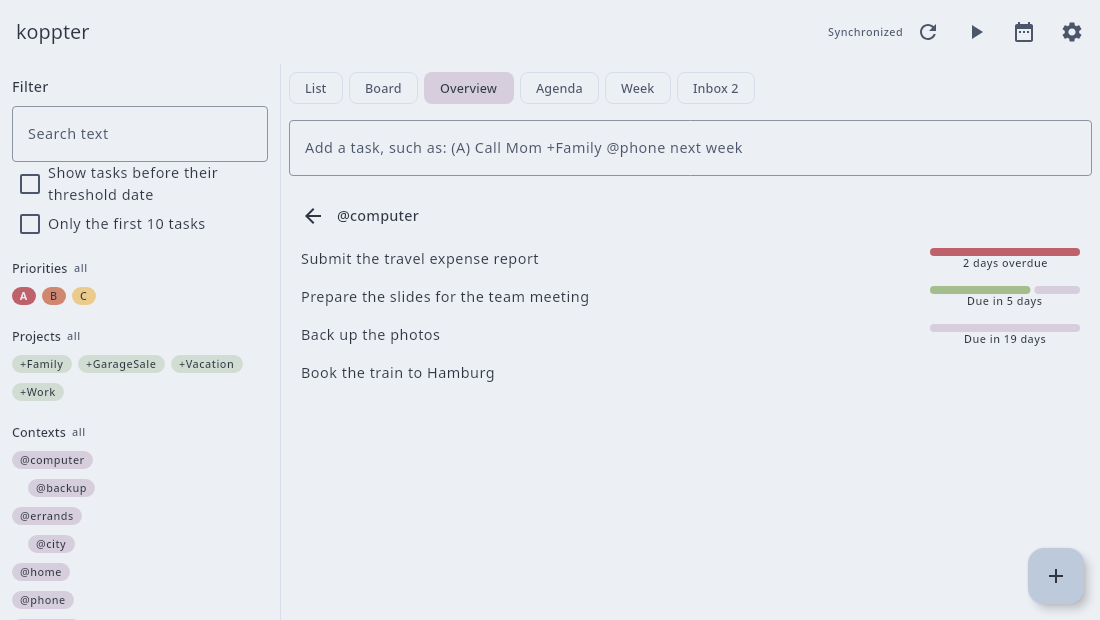
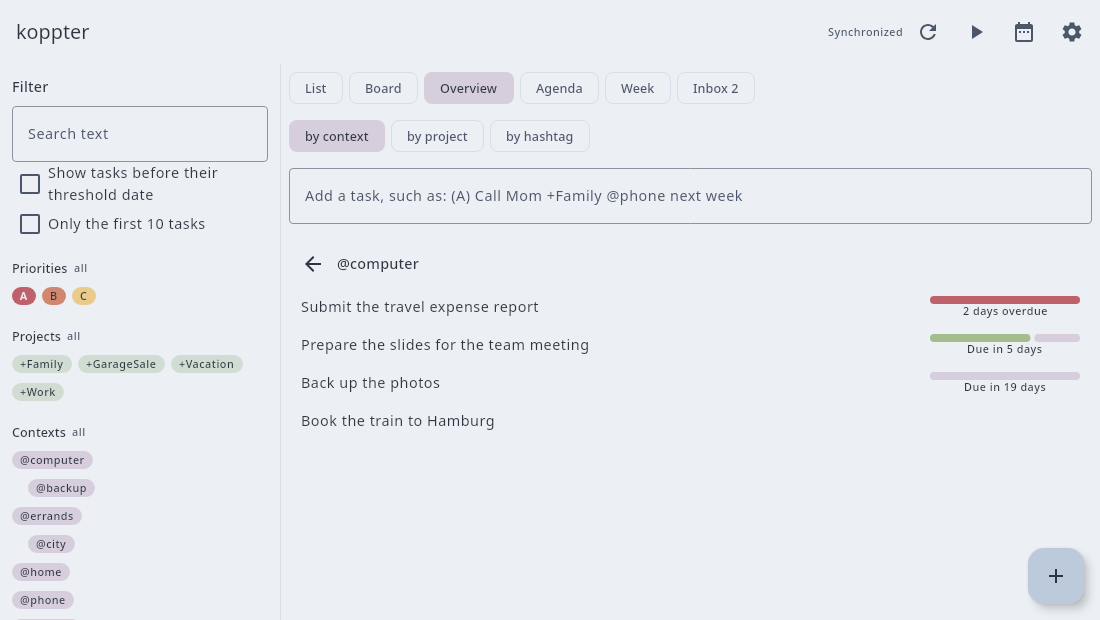
Show the overview by project or by hashtag as well
The overview had tiles for contexts only.
The switches below the views now choose contexts, projects or hashtags, so that a project or a hashtag shows its state and its most urgent tasks in the same way.

diff --git a/app/src/commonMain/kotlin/io/github/koppor/koppter/ui/App.kt b/app/src/commonMain/kotlin/io/github/koppor/koppter/ui/App.kt
@@ -90,7 +90,8 @@ import io.github.koppor.koppter.todotxt.Completion
 import io.github.koppor.koppter.todotxt.Filter
 import io.github.koppor.koppter.todotxt.GroupKey
 import io.github.koppor.koppter.todotxt.Task
-import io.github.koppor.koppter.todotxt.contextStates
+import io.github.koppor.koppter.todotxt.OVERVIEW_KEYS
+import io.github.koppor.koppter.todotxt.overviewStates
 import kotlinx.coroutines.delay
 import kotlinx.coroutines.launch
 
@@ -300,7 +301,10 @@ private fun MainScreen(
                         val emptyText = if (controller.file.entries.isEmpty()) "No tasks" else "No task matches the filter"
                         val open: (Entry) -> Unit = { editing = Editing(it) }
                         if (controller.view == View.OVERVIEW) {
-                            Overview(contextStates(controller.visible, controller.today()), controller.today(), open, emptyText)
+                            // An opened tile belongs to the attribute that was chosen: another one starts with the tiles.
+                            androidx.compose.runtime.key(controller.overviewKey) {
+                                Overview(overviewStates(controller.visible, controller.today(), controller.overviewKey), controller.today(), open, emptyText)
+                            }
                         } else if (controller.view == View.AGENDA) {
                             Agenda(controller.planBlocks, controller.dueUnplanned, controller::entryOf, controller.today(), controller::toggle, open)
                         } else if (controller.view == View.WEEK) {
@@ -414,13 +418,24 @@ private fun ViewOptions(controller: TodoController) {
             }
         }
         val list = controller.view == View.LIST
-        if (!list && !controller.board) return
+        val overview = controller.view == View.OVERVIEW
+        if (!list && !overview && !controller.board) return
         Row(Modifier.horizontalScroll(rememberScrollState()), horizontalArrangement = Arrangement.spacedBy(6.dp)) {
-            for (key in GroupKey.entries) {
+            for (key in if (overview) OVERVIEW_KEYS else GroupKey.entries) {
                 FilterChip(
-                    selected = (if (list) controller.listGroupKey else controller.groupKey) == key,
-                    // The board always has columns; the list is divided or not.
-                    onClick = { if (list) controller.listGroupKey = key.takeIf { it != controller.listGroupKey } else controller.groupKey = key },
+                    selected = when {
+                        list -> controller.listGroupKey
+                        overview -> controller.overviewKey
+                        else -> controller.groupKey
+                    } == key,
+                    // The board always has columns and the overview always has tiles; the list is divided or not.
+                    onClick = {
+                        when {
+                            list -> controller.listGroupKey = key.takeIf { it != controller.listGroupKey }
+                            overview -> controller.overviewKey = key
+                            else -> controller.groupKey = key
+                        }
+                    },
                     label = { Text("by ${key.label.lowercase()}") },
                     modifier = Modifier.testTag("group-${key.name}"),
                 )

diff --git a/app/src/commonMain/kotlin/io/github/koppor/koppter/ui/Overview.kt b/app/src/commonMain/kotlin/io/github/koppor/koppter/ui/Overview.kt
@@ -34,7 +34,7 @@ import androidx.compose.ui.Modifier
 import androidx.compose.ui.graphics.Color
 import androidx.compose.ui.platform.testTag
 import androidx.compose.ui.unit.dp
-import io.github.koppor.koppter.todotxt.ContextState
+import io.github.koppor.koppter.todotxt.OverviewState
 import io.github.koppor.koppter.todotxt.Entry
 import io.github.koppor.koppter.todotxt.UrgencyState
 import io.github.koppor.koppter.todotxt.urgency
@@ -48,16 +48,16 @@ private fun UrgencyState.color(): Color = when (this) {
 }
 
 /**
- * One tile per context of the outermost level, which tells by a colored dot how the context is doing.
- * A click on a tile shows the tasks of the context, the most urgent first, each with a bar that fills up to its due date.
+ * One tile per context, project or hashtag, which tells by a colored dot how it is doing.
+ * A click on a tile shows its tasks, the most urgent first, each with a bar that fills up to its due date.
  */
 // [impl->dsn~overview~1]
 @OptIn(ExperimentalLayoutApi::class)
 @Composable
-fun Overview(states: List<ContextState>, today: LocalDate, onOpen: (Entry) -> Unit, emptyText: String) {
+fun Overview(states: List<OverviewState>, today: LocalDate, onOpen: (Entry) -> Unit, emptyText: String) {
     var selected by remember { mutableStateOf<String?>(null) }
     var showing by remember { mutableStateOf(false) }
-    val shown = states.firstOrNull { it.context == selected }.takeIf { showing }
+    val shown = states.firstOrNull { it.name == selected }.takeIf { showing }
     Column(Modifier.verticalScroll(rememberScrollState()).padding(8.dp).testTag("overview")) {
         if (states.isEmpty()) Text(emptyText, Modifier.padding(16.dp))
         if (shown == null) {
@@ -65,9 +65,9 @@ fun Overview(states: List<ContextState>, today: LocalDate, onOpen: (Entry) -> Un
                 for (state in states) {
                     Card(
                         Modifier.width(170.dp).clickable {
-                            selected = state.context
+                            selected = state.name
                             showing = true
-                        }.testTag("overview-${state.context ?: "none"}"),
+                        }.testTag("overview-${state.name ?: "none"}"),
                     ) {
                         Column(Modifier.padding(12.dp), verticalArrangement = Arrangement.spacedBy(4.dp)) {
                             Row(verticalAlignment = Alignment.CenterVertically) {
@@ -90,7 +90,7 @@ fun Overview(states: List<ContextState>, today: LocalDate, onOpen: (Entry) -> Un
         } else {
             Row(verticalAlignment = Alignment.CenterVertically) {
                 IconButton(onClick = { showing = false }, modifier = Modifier.testTag("overview-back")) {
-                    Icon(Icons.AutoMirrored.Filled.ArrowBack, contentDescription = "All contexts")
+                    Icon(Icons.AutoMirrored.Filled.ArrowBack, contentDescription = "Back to the tiles")
                 }
                 Text(shown.title, style = MaterialTheme.typography.titleMedium)
             }
@@ -118,5 +118,3 @@ fun Overview(states: List<ContextState>, today: LocalDate, onOpen: (Entry) -> Un
         }
     }
 }
-
-private val ContextState.title: String get() = context?.let { "@$it" } ?: "No context"

diff --git a/core/src/commonMain/kotlin/io/github/koppor/koppter/todotxt/Urgency.kt b/core/src/commonMain/kotlin/io/github/koppor/koppter/todotxt/Urgency.kt
@@ -45,12 +45,13 @@ fun Task.urgency(today: LocalDate): Urgency? {
 }
 
 /**
- * The state of a context of the outermost level, with the contexts below it.
+ * The state of a tile of the overview: a context or a project of the outermost level with those below it, or a hashtag.
  *
- * @param context `null` for the tasks without context
+ * @param name `null` for the tasks that have none
+ * @param title the name with its sign, as the tile shows it
  * @param entries the open tasks, the most urgent first and those without due date last
  */
-data class ContextState(val context: String?, val entries: List<Entry>, val dueToday: Int, val overdue: Int) {
+data class OverviewState(val name: String?, val title: String, val entries: List<Entry>, val dueToday: Int, val overdue: Int) {
     val state: UrgencyState
         get() = when {
             overdue > 0 -> UrgencyState.OVERDUE
@@ -59,17 +60,29 @@ data class ContextState(val context: String?, val entries: List<Entry>, val dueT
         }
 }
 
-/** The contexts of the outermost level that have open tasks, sorted by name; the tasks without context last. */
+/** The attributes that the overview has tiles for. */
+val OVERVIEW_KEYS = listOf(GroupKey.CONTEXT, GroupKey.PROJECT, GroupKey.HASHTAG)
+
+/**
+ * The contexts, projects or hashtags that have open tasks, sorted by name; the tasks that have none last.
+ * Contexts and projects are those of the outermost level, each with what lies below it.
+ */
 // [impl->dsn~overview~1]
-fun contextStates(entries: List<Entry>, today: LocalDate): List<ContextState> {
+fun overviewStates(entries: List<Entry>, today: LocalDate, key: GroupKey = GroupKey.CONTEXT): List<OverviewState> {
+    val (sign, values) = when (key) {
+        GroupKey.PROJECT -> "+" to Task::projects
+        GroupKey.HASHTAG -> "#" to Task::hashtags
+        else -> "@" to Task::contexts
+    }
     val open = entries.filterNot { it.task.completed }
-    val contexts = open.flatMap { it.task.contexts }.map { it.substringBefore(LEVEL_SEPARATOR) }.distinct().sorted()
-    return (contexts + null).mapNotNull { context ->
+    val names = open.flatMap { values(it.task) }.map { it.substringBefore(LEVEL_SEPARATOR) }.distinct().sorted()
+    return (names + null).mapNotNull { name ->
         val own = open.filter { entry ->
-            if (context == null) entry.task.contexts.isEmpty() else entry.task.contexts.any { it.isWithin(context) }
+            if (name == null) values(entry.task).isEmpty() else values(entry.task).any { it.isWithin(name) }
         }.sortedWith(compareBy<Entry> { it.task.urgency(today)?.daysLeft ?: Int.MAX_VALUE }.then(listOrder(today)))
         if (own.isEmpty()) return@mapNotNull null
         val states = own.mapNotNull { it.task.urgency(today)?.state }
-        ContextState(context, own, states.count { it == UrgencyState.DUE }, states.count { it == UrgencyState.OVERDUE })
+        val title = name?.let { sign + it } ?: "No ${key.label.lowercase()}"
+        OverviewState(name, title, own, states.count { it == UrgencyState.DUE }, states.count { it == UrgencyState.OVERDUE })
     }
 }

diff --git a/core/src/commonTest/kotlin/io/github/koppor/koppter/todotxt/UrgencyTest.kt b/core/src/commonTest/kotlin/io/github/koppor/koppter/todotxt/UrgencyTest.kt
@@ -42,12 +42,35 @@ class UrgencyTest {
             Buy a present due:2026-12-24
             """.trimIndent(),
         )
-        val states = contextStates(file.entries, today)
+        val states = overviewStates(file.entries, today)
 
-        assertEquals(listOf("home", "phone", "research", null), states.map { it.context })
+        assertEquals(listOf("home", "phone", "research", null), states.map { it.name })
+        assertEquals(listOf("@home", "@phone", "@research", "No context"), states.map { it.title })
         assertEquals(listOf(UrgencyState.FINE, UrgencyState.DUE, UrgencyState.OVERDUE, UrgencyState.FINE), states.map { it.state })
         // The most urgent task first, a task without due date last.
         assertEquals(listOf("Review a paper", "Read the survey", "Plan the experiment"), states[2].entries.map { it.task.description })
         assertEquals(1, states[2].overdue)
+    }
+
+    // [utest->dsn~overview~1]
+    @Test
+    fun theOverviewHasTilesForProjectsAndHashtagsAsWell() {
+        val file = TodoFile.parse(
+            """
+            Outline the related work +papers>survey #writing due:2026-11-10
+            Pick a venue +papers due:2026-11-12
+            Print the form +paperwork #quick
+            Call Mom
+            """.trimIndent(),
+        )
+        // A project of the outermost level includes those below it, and a name that only starts alike is another one.
+        val projects = overviewStates(file.entries, today, GroupKey.PROJECT)
+        assertEquals(listOf("+papers", "+paperwork", "No project"), projects.map { it.title })
+        assertEquals(listOf(2, 1, 1), projects.map { it.entries.size })
+        assertEquals(UrgencyState.OVERDUE, projects[0].state)
+
+        val hashtags = overviewStates(file.entries, today, GroupKey.HASHTAG)
+        assertEquals(listOf("#quick", "#writing", "No hashtag"), hashtags.map { it.title })
+        assertEquals(listOf(1, 1, 2), hashtags.map { it.entries.size })
     }
 }

diff --git a/app/src/desktopTest/kotlin/io/github/koppor/koppter/ui/AppTest.kt b/app/src/desktopTest/kotlin/io/github/koppor/koppter/ui/AppTest.kt
@@ -821,6 +821,20 @@ class AppTest {
         onNodeWithTag("edit-cancel").performScrollTo().performClick()
         onNodeWithTag("overview-back").performClick()
         onNodeWithTag("overview-phone").assertExists()
+
+        // The tiles stand for contexts, projects or hashtags, and one of the three is always chosen.
+        onNodeWithTag("group-CONTEXT").assertIsSelected()
+        onNodeWithTag("group-PRIORITY").assertDoesNotExist()
+        onNodeWithTag("overview-home").performClick()
+        onNodeWithTag("group-PROJECT").performClick()
+        // The tiles again, not the tasks of the tile that was open.
+        onNodeWithTag("overview-GarageSale").assertExists()
+        onNodeWithTag("overview-home").assertDoesNotExist()
+        onNodeWithText("No project").assertExists()
+        onNodeWithTag("group-PROJECT").performClick()
+        onNodeWithTag("group-PROJECT").assertIsSelected()
+        onNodeWithTag("group-HASHTAG").performClick()
+        onNodeWithText("No hashtag").assertExists()
     }
 
     // [utest->dsn~plan-dialog~1]
@@ -1329,7 +1343,10 @@ class AppTest {
         // A click on the selected view leaves it selected.
         onNodeWithTag("overview-switch").performClick()
         onNodeWithTag("overview-switch").assertIsSelected()
-        // The overview has no groups to choose.
+        // The overview has tiles for contexts, projects or hashtags; the agenda has nothing to choose.
+        onNodeWithTag("group-PROJECT").assertExists()
+        onNodeWithTag("group-DUE").assertDoesNotExist()
+        onNodeWithTag("agenda-switch").performClick()
         onNodeWithTag("group-PROJECT").assertDoesNotExist()
         onNodeWithTag("list-switch").performClick()
         onAllNodesWithTag("task").assertCountEquals(3)

diff --git a/app/src/commonMain/kotlin/io/github/koppor/koppter/ui/TodoController.kt b/app/src/commonMain/kotlin/io/github/koppor/koppter/ui/TodoController.kt
@@ -91,6 +91,9 @@ class TodoController(
     /** The attribute by whose values the list is divided into groups; `null` for a list without groups. */
     var listGroupKey by mutableStateOf<GroupKey?>(null)
 
+    /** What the overview has its tiles for: one of [OVERVIEW_KEYS]. */
+    var overviewKey by mutableStateOf(GroupKey.CONTEXT)
+
     /** The configuration file next to the todo.txt file; `null` if the storage keeps no files next to the todo.txt file. */
     private var config by mutableStateOf<String?>(null)
 

diff --git a/docs/requirements/extensions.md b/docs/requirements/extensions.md
@@ -105,7 +105,8 @@ Needs: dsn
 `req~overview~1`
 
 The user sees for each context how it is doing: whether tasks are overdue or due today.
-For a context, the user sees its tasks ordered by urgency, each with the days until or since its due date and with the part of its time that has passed.
+The user sees the same for each project or for each hashtag instead.
+For a context, a project or a hashtag, the user sees its tasks ordered by urgency, each with the days until or since its due date and with the part of its time that has passed.
 
 Covers:
 
@@ -426,6 +427,7 @@ Needs: impl, utest
 A row of switches above the tasks selects the view: list, board, overview, agenda, week or inbox.
 One of them is always selected.
 For the list and the board, a second row below it selects the attribute of the groups of the list, which a second click switches off, or of the columns of the board, for which the columns defined by filters are a choice as well.
+For the overview, the second row selects what the tiles stand for: contexts, projects or hashtags.
 Each row is one line that scrolls sideways in a window that is too narrow for it.
 
 Covers:
@@ -500,9 +502,11 @@ Needs: impl, utest
 `dsn~overview~1`
 
 `Task.urgency` gives the days until the due date of an open task and the part of the time that has passed since its start: the threshold date, else the creation date, else two weeks before the due date.
-`contextStates` groups the open tasks by their contexts of the outermost level, a context including the contexts below it, and sorts the tasks of each by urgency; the tasks without context form a group of their own.
-The state of a context is that of its most urgent task: overdue, due today, or neither.
-`Overview` shows the contexts of the visible tasks as tiles with a dot in the color of the state, and after a click on a tile the tasks of that context with a progress bar and the text of their urgency.
+`overviewStates` groups the open tasks by their contexts of the outermost level, a context including the contexts below it, and sorts the tasks of each by urgency; the tasks without context form a group of their own.
+It groups by the projects of the outermost level or by the hashtags in the same way.
+The state of a group is that of its most urgent task: overdue, due today, or neither.
+`Overview` shows the groups of the visible tasks as tiles with a dot in the color of the state, and after a click on a tile the tasks of that group with a progress bar and the text of their urgency.
+The second row of the view options selects contexts, projects or hashtags; contexts are selected at the start, and another choice shows the tiles again.
 A switch above the tasks turns the overview on; it and the other views that replace the list exclude each other.
 
 Covers:

diff --git a/README.md b/README.md
@@ -349,6 +349,7 @@ The line of the edit dialog and `ice_recur.txt` use the letters.
 The switch *Overview* above the tasks shows one tile per context of the outermost level instead of the tasks.
 A tile counts the open tasks of the context and of the contexts below it, and its dot tells the state of the most urgent one: overdue, due today, or neither.
 The tasks without context have a tile of their own.
+The switches below the views show the tiles *by project* or *by hashtag* instead: one tile per project of the outermost level with the projects below it, or one per hashtag.
 The filter panel applies to the overview as it does to the list.
 
 A click on a tile lists the tasks of the context, the most urgent first and those without due date last.

diff --git a/CHANGELOG.md b/CHANGELOG.md
@@ -9,6 +9,7 @@ and this project adheres to [Calendar Versioning](https://calver.org/) with the 
 
 ### Added
 
+- The overview shows its tiles by project or by hashtag as well as by context.
 - On Android, *Share log* in the settings passes the end of the log as text to another application.
 - The Android application writes a log as the desktop application does, to the directory `logs` of the application in the shared storage of the device and to logcat.
 - The desktop application writes a log to the directory `logs` of its data directory, at most three files of one megabyte; it holds what failed, such as a synchronization or the writing of the file, and the messages of the git library.
